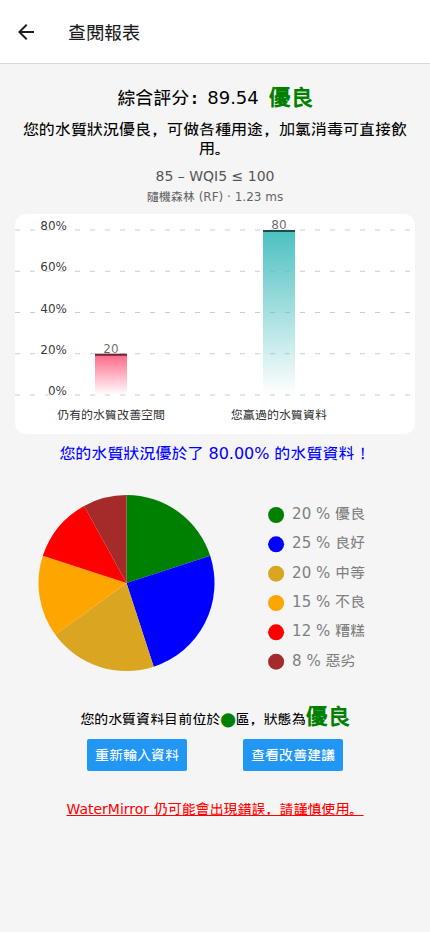
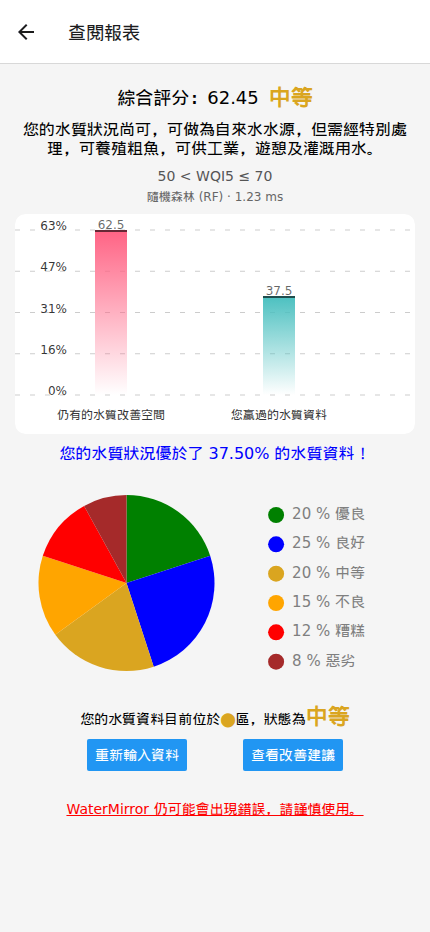
docs: add WaterMirror screenshot flow and captures

diff --git a/README.md b/README.md
@@ -4,6 +4,12 @@
 
 WaterMirror is a cross-platform mobile frontend for WQI5-based current-state water quality assessment.
 
+<p align="center">
+  <img src="docs/screenshots/readme-flow.png" width="100%" alt="WaterMirror flow: home screen, manual input with Random Forest selected, assessment result, and improvement suggestions" />
+</p>
+
+<p align="center"><sub>From left to right: home, RF input, result, and improvement suggestions. The interface is real; sample measurements, backend-ready status, assessment, percentile, and chart data are simulated locally and do not come from a live backend.</sub></p>
+
 It allows users to:
 
 - input five water quality indicators manually
@@ -29,18 +35,6 @@ WaterMirror depends on the API contract exposed by [WQSurrogateModels](https://g
 - Ammonia nitrogen (`NH3N`)
 - Electrical conductivity (`EC`)
 - Suspended solids (`SS`)
-
-## Screenshots
-
-These screenshots show the actual Expo Web interface at a portrait phone viewport, from the home screen through model selection, manual input, and the assessment report. The model menu shows the available choices; the example assessment uses **Random Forest (RF)**. Measurements (`DO 7.2`, `BOD 3.1`, `NH3-N 0.5`, `EC 280`, `SS 45`), backend-ready status, assessment response (WQI5 89.54, `Excellent`), percentile, and chart data are simulated locally for illustration and do not come from a live backend.
-
-| Home | Model choices |
-| :---: | :---: |
-| <img src="docs/screenshots/home.png" width="300" alt="WaterMirror home screen" /> | <img src="docs/screenshots/model-options.png" width="300" alt="WaterMirror model picker listing the available assessment models" /> |
-
-| Manual input · Random Forest (RF) | Assessment result · Random Forest (RF) |
-| :---: | :---: |
-| <img src="docs/screenshots/manual-input.png" width="300" alt="WaterMirror manual input form with illustrative sample measurements and Random Forest selected" /> | <img src="docs/screenshots/assessment-result.png" width="300" alt="WaterMirror illustrative assessment result showing Random Forest" /> |
 
 ## Prerequisites
 
